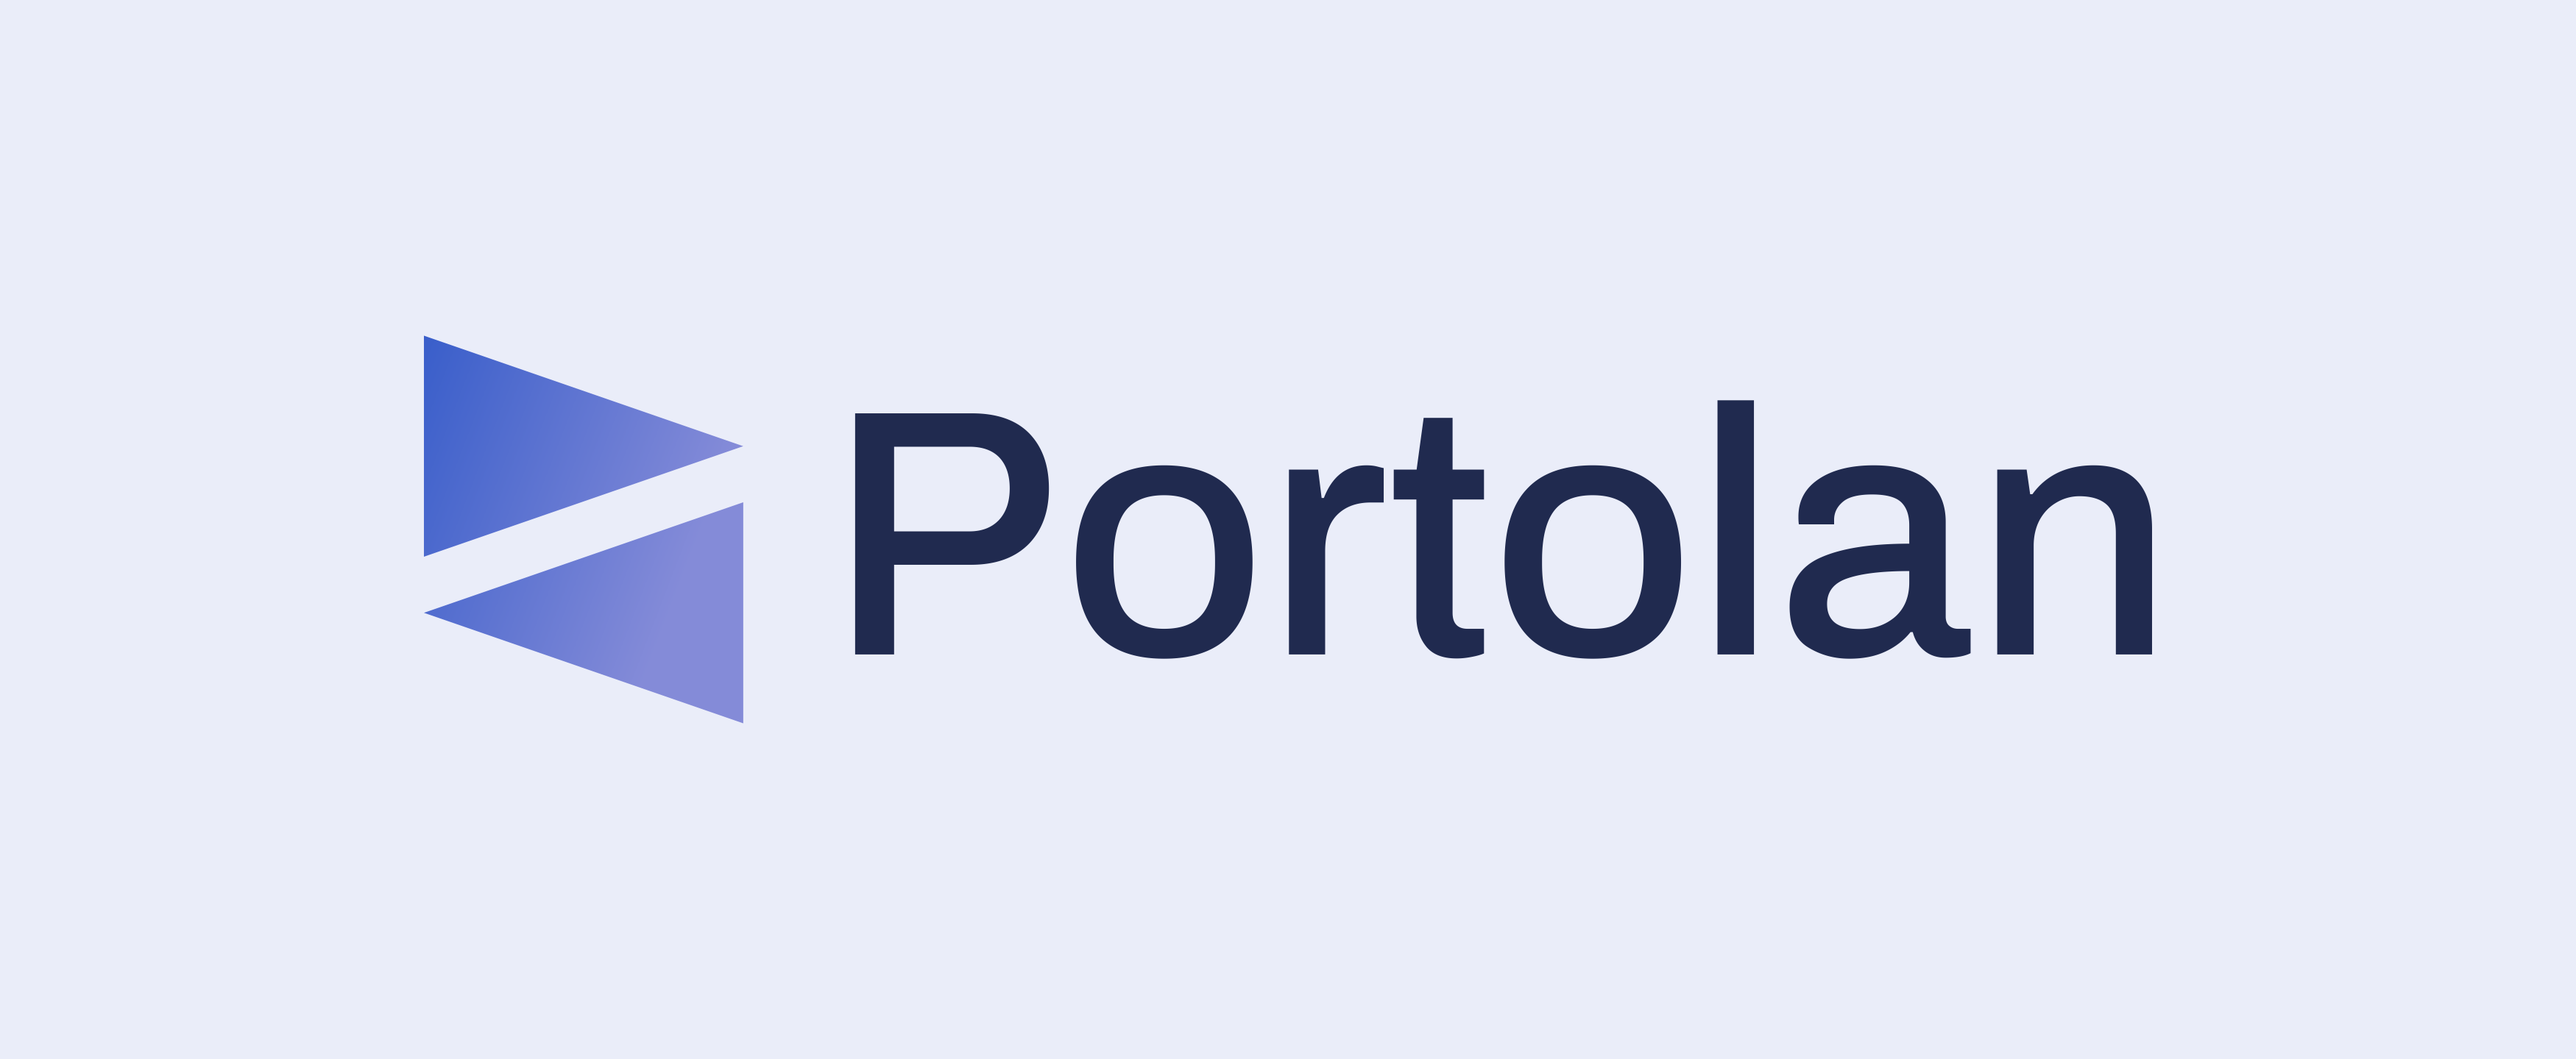
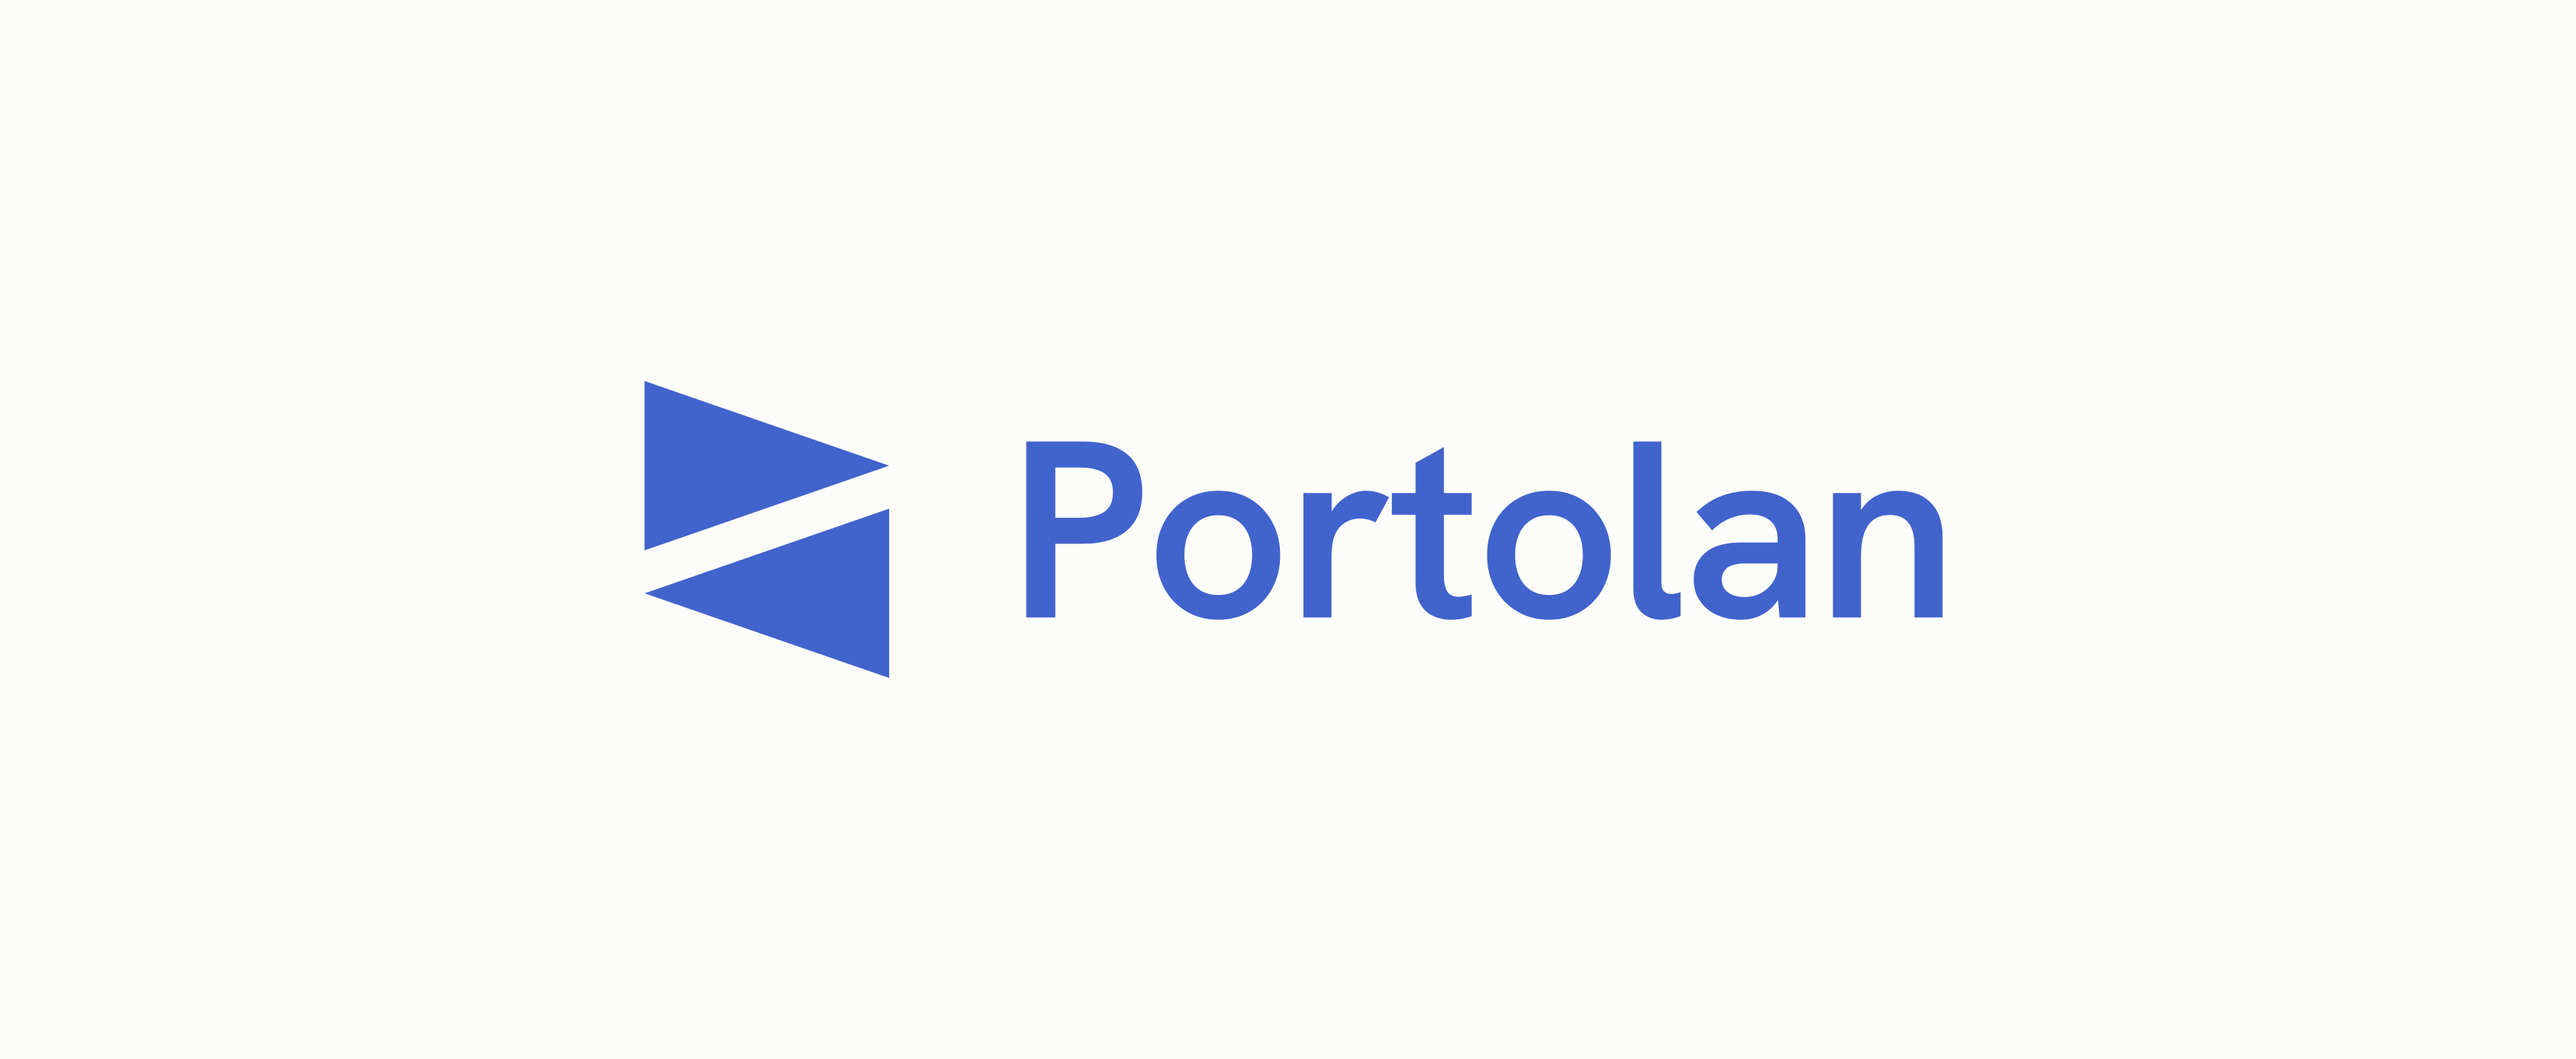
fix(docs): use the canonical Portolan mark
Every logo file in this repository was off-brand.

`icon.svg` drew the correct two pennants, but filled them with a `#395ECA`
to `#848BD8` gradient. `brand.json` in portolan-ops bans a gradient anywhere,
and it requires a solid `@palette.primary` fill for the logo. Neither hex is
the brand blue `#4163cc`. Both marks now take a solid fill. `icon-white.svg`
takes cream `#fcfcfa`, because the kit bans a pure-white mark.

`logo.svg` is deleted. It was output from a logo generator, and it carried
Vue scoped-style attributes and a `#EAEDF9` background rect. It drew a
wordmark that no Portolan surface uses. No config referenced it.

`social-card.png` and `logo.png` are regenerated from the canonical files.
The card sets the horizontal lockup in Portolan blue on cream paper.

`mkdocs.yml` pointed `theme.favicon` at a 1000x1000 PNG. It now points at a
real `favicon.ico` holding 16, 32, and 48 pixel cuts.

`BRANDING.md` and `SOCIAL_PREVIEW.md` defined a second brand. They named
Archivo as the family, and they listed `#eaedf9`, `#202a4f`, `#343e63`, and
the gradient pair as brand colors. None of those values appear in
`brand.json`. Both documents now point at the brand kit and restate no hex
value.

Changed region(s): [[0.1557, 0.3125, 0.8409, 0.6875]]

diff --git a/docs/BRANDING.md b/docs/BRANDING.md
@@ -1,98 +1,61 @@
 # Portolan Branding Guide
 
-This document outlines the branding implementation for Portolan CLI documentation and repository.
+This document describes how the Portolan CLI documentation applies the brand.
 
-## Brand Identity
+## Where the values live
 
-**Font**: Archivo Medium
-**Designer**: Omnibus-Type
-**License**: Open Font License
-**Icon Designer**: Icons By Alfredo
+The brand kit in
+[portolan-ops](https://github.com/portolan-sdi/portolan-ops/blob/main/brand/)
+is the canonical home for the palette, the fonts, and the logo files.
+`brand.json` holds every value. This repository reads those values and does
+not restate them.
 
-## Color Palette
+Three standing rules apply here. Corners are square. Surfaces are flat and
+separated by rules, not by cards or shadows. Gradients are banned anywhere.
 
-| Element | Hex | Usage |
-|---------|-----|-------|
-| Background | `#eaedf9` | Page backgrounds, light sections |
-| Dark Text | `#202a4f` | Primary text, headings |
-| Slogan | `#343e63` | Secondary text, captions |
-| Primary | `#4163cc` | Links, buttons, accents |
-| Gradient Start | `#395eca` | Gradient backgrounds (start) |
-| Gradient End | `#848bd8` | Gradient backgrounds (end) |
+## Type
+
+Hanken Grotesk sets Latin prose and headlines. JetBrains Mono sets the
+machine register: code, labels, data, paths, and controls. Cairo sets all
+Arabic.
 
 ## Logo assets
 
-All logo files are located in `docs/assets/images/`:
+All logo files live in `docs/assets/images/`:
 
-- **logo.svg** - Vector logo for header (scalable, preferred)
-- **logo.png** - 1000x1000px PNG for favicon and fallbacks
-- **social-card.png** - 3500x1440px cover image for social media previews
+| File | Use |
+|---|---|
+| `icon.svg` | The mark in Portolan blue. Use it on a light ground. |
+| `icon-white.svg` | The mark in cream. Use it on a dark ground. |
+| `logo.png` | 1000x1000 raster mark for a fallback. |
+| `favicon.ico` | The browser tab icon at 16, 32, and 48 px. |
+| `social-card.png` | 3500x1440 card for social media previews. |
+
+Each file carries a solid fill. The mark never takes a gradient.
 
 ## MkDocs Configuration
 
-The branding is implemented through:
+Two files implement the branding:
 
-1. **mkdocs.yml** - Logo, favicon, and theme configuration
-2. **docs/assets/stylesheets/extra.css** - Custom color scheme and styling
-
-### Key Features
-
-- Custom color palette matching Portolan brand
-- SVG logo in header
-- PNG favicon
-- Gradient styling on H1 headings
-- Custom link and button styles
-- Dark mode support with adjusted colors
+1. `mkdocs.yml` sets the header logo and the favicon.
+2. `docs/assets/stylesheets/extra.css` sets the color scheme.
 
 ## GitHub Repository Setup
 
-Configure these settings in **Settings** → **General**:
+Configure these settings in **Settings** and then **General**.
 
-**Social preview:** Upload `docs/assets/images/social-card.png` to ensure Portolan branding appears on social media, chat apps, and link previews.
+Upload `docs/assets/images/social-card.png` under **Social preview**.
 
-**Repository description:** Use the brand messaging:
+Set the repository description to the brand messaging:
 
 > A CLI for publishing and managing cloud-native geospatial data catalogs
 
-## README Branding
-
-The main README.md includes:
-
-- Centered logo at the top
-- Brand tagline
-- Consistent color references in documentation links
-
 ## Documentation Site
 
-View the branded documentation locally:
+Build the documentation locally:
 
 ```bash
 uv run mkdocs serve
 ```
 
-Then open http://127.0.0.1:8000 in your browser.
-
-## Deployment
-
-When deploying to GitHub Pages, the branding will automatically be applied. The custom CSS and logo assets are included in the build.
-
-## Customization
-
-To modify the brand colors, edit:
-
-```css
-/* docs/assets/stylesheets/extra.css */
-:root {
-  --portolan-bg: #eaedf9;
-  --portolan-dark-text: #202a4f;
-  --portolan-primary: #4163cc;
-  /* ... other colors */
-}
-```
-
-## Attribution
-
-All branding assets are sourced from `../Portolan-logo/` (one level up from project root).
-
-**Font License**: Open Font License
-**Icon Designer**: Icons By Alfredo via [branding tool/service]
+Then open http://127.0.0.1:8000 in a browser.

diff --git a/.github/SOCIAL_PREVIEW.md b/.github/SOCIAL_PREVIEW.md
@@ -1,30 +1,29 @@
 # GitHub Social Preview Setup
 
-To configure the repository's social preview image:
+To configure the repository social preview image:
 
-1. Go to repository **Settings** → **General**
-2. Scroll to **Social preview**
-3. Click **Edit**
-4. Upload the image at `docs/assets/images/social-card.png` (3500x1440px)
+1. Go to repository **Settings** and then **General**.
+2. Scroll to **Social preview**.
+3. Click **Edit**.
+4. Upload the image at `docs/assets/images/social-card.png` (3500x1440px).
 
-This will make the Portolan logo and cover image appear when sharing the repository on social media, Slack, Discord, etc.
+The Portolan lockup then appears when someone shares the repository on
+social media, Slack, or Discord.
 
 ## Files Available
 
-- **Logo (square)**: `docs/assets/images/logo.png` (1000x1000)
-- **Logo (vector)**: `docs/assets/images/logo.svg`
+- **Mark (vector)**: `docs/assets/images/icon.svg`
+- **Mark on a dark ground**: `docs/assets/images/icon-white.svg`
+- **Mark (square raster)**: `docs/assets/images/logo.png` (1000x1000)
+- **Favicon**: `docs/assets/images/favicon.ico` (16, 32, and 48 px)
 - **Social card**: `docs/assets/images/social-card.png` (3500x1440)
 
-## Brand Colors
+## Brand Values
 
-- **Background**: `#eaedf9`
-- **Dark text**: `#202a4f`
-- **Primary**: `#4163cc`
-- **Gradient**: `#395eca` → `#848bd8`
+The brand kit in
+[portolan-ops](https://github.com/portolan-sdi/portolan-ops/blob/main/brand/)
+holds the canonical palette, fonts, and logo files. Read `brand.json` there.
+Do not restate a hex value in this repository.
 
-## Typography
-
-- **Font**: Archivo Medium
-- **Designer**: Omnibus-Type
-- **License**: Open Font License
-- **Icon**: Designed by Icons By Alfredo
+The social card sets the horizontal lockup in Portolan blue on cream paper.
+The wordmark is Hanken Grotesk SemiBold.
